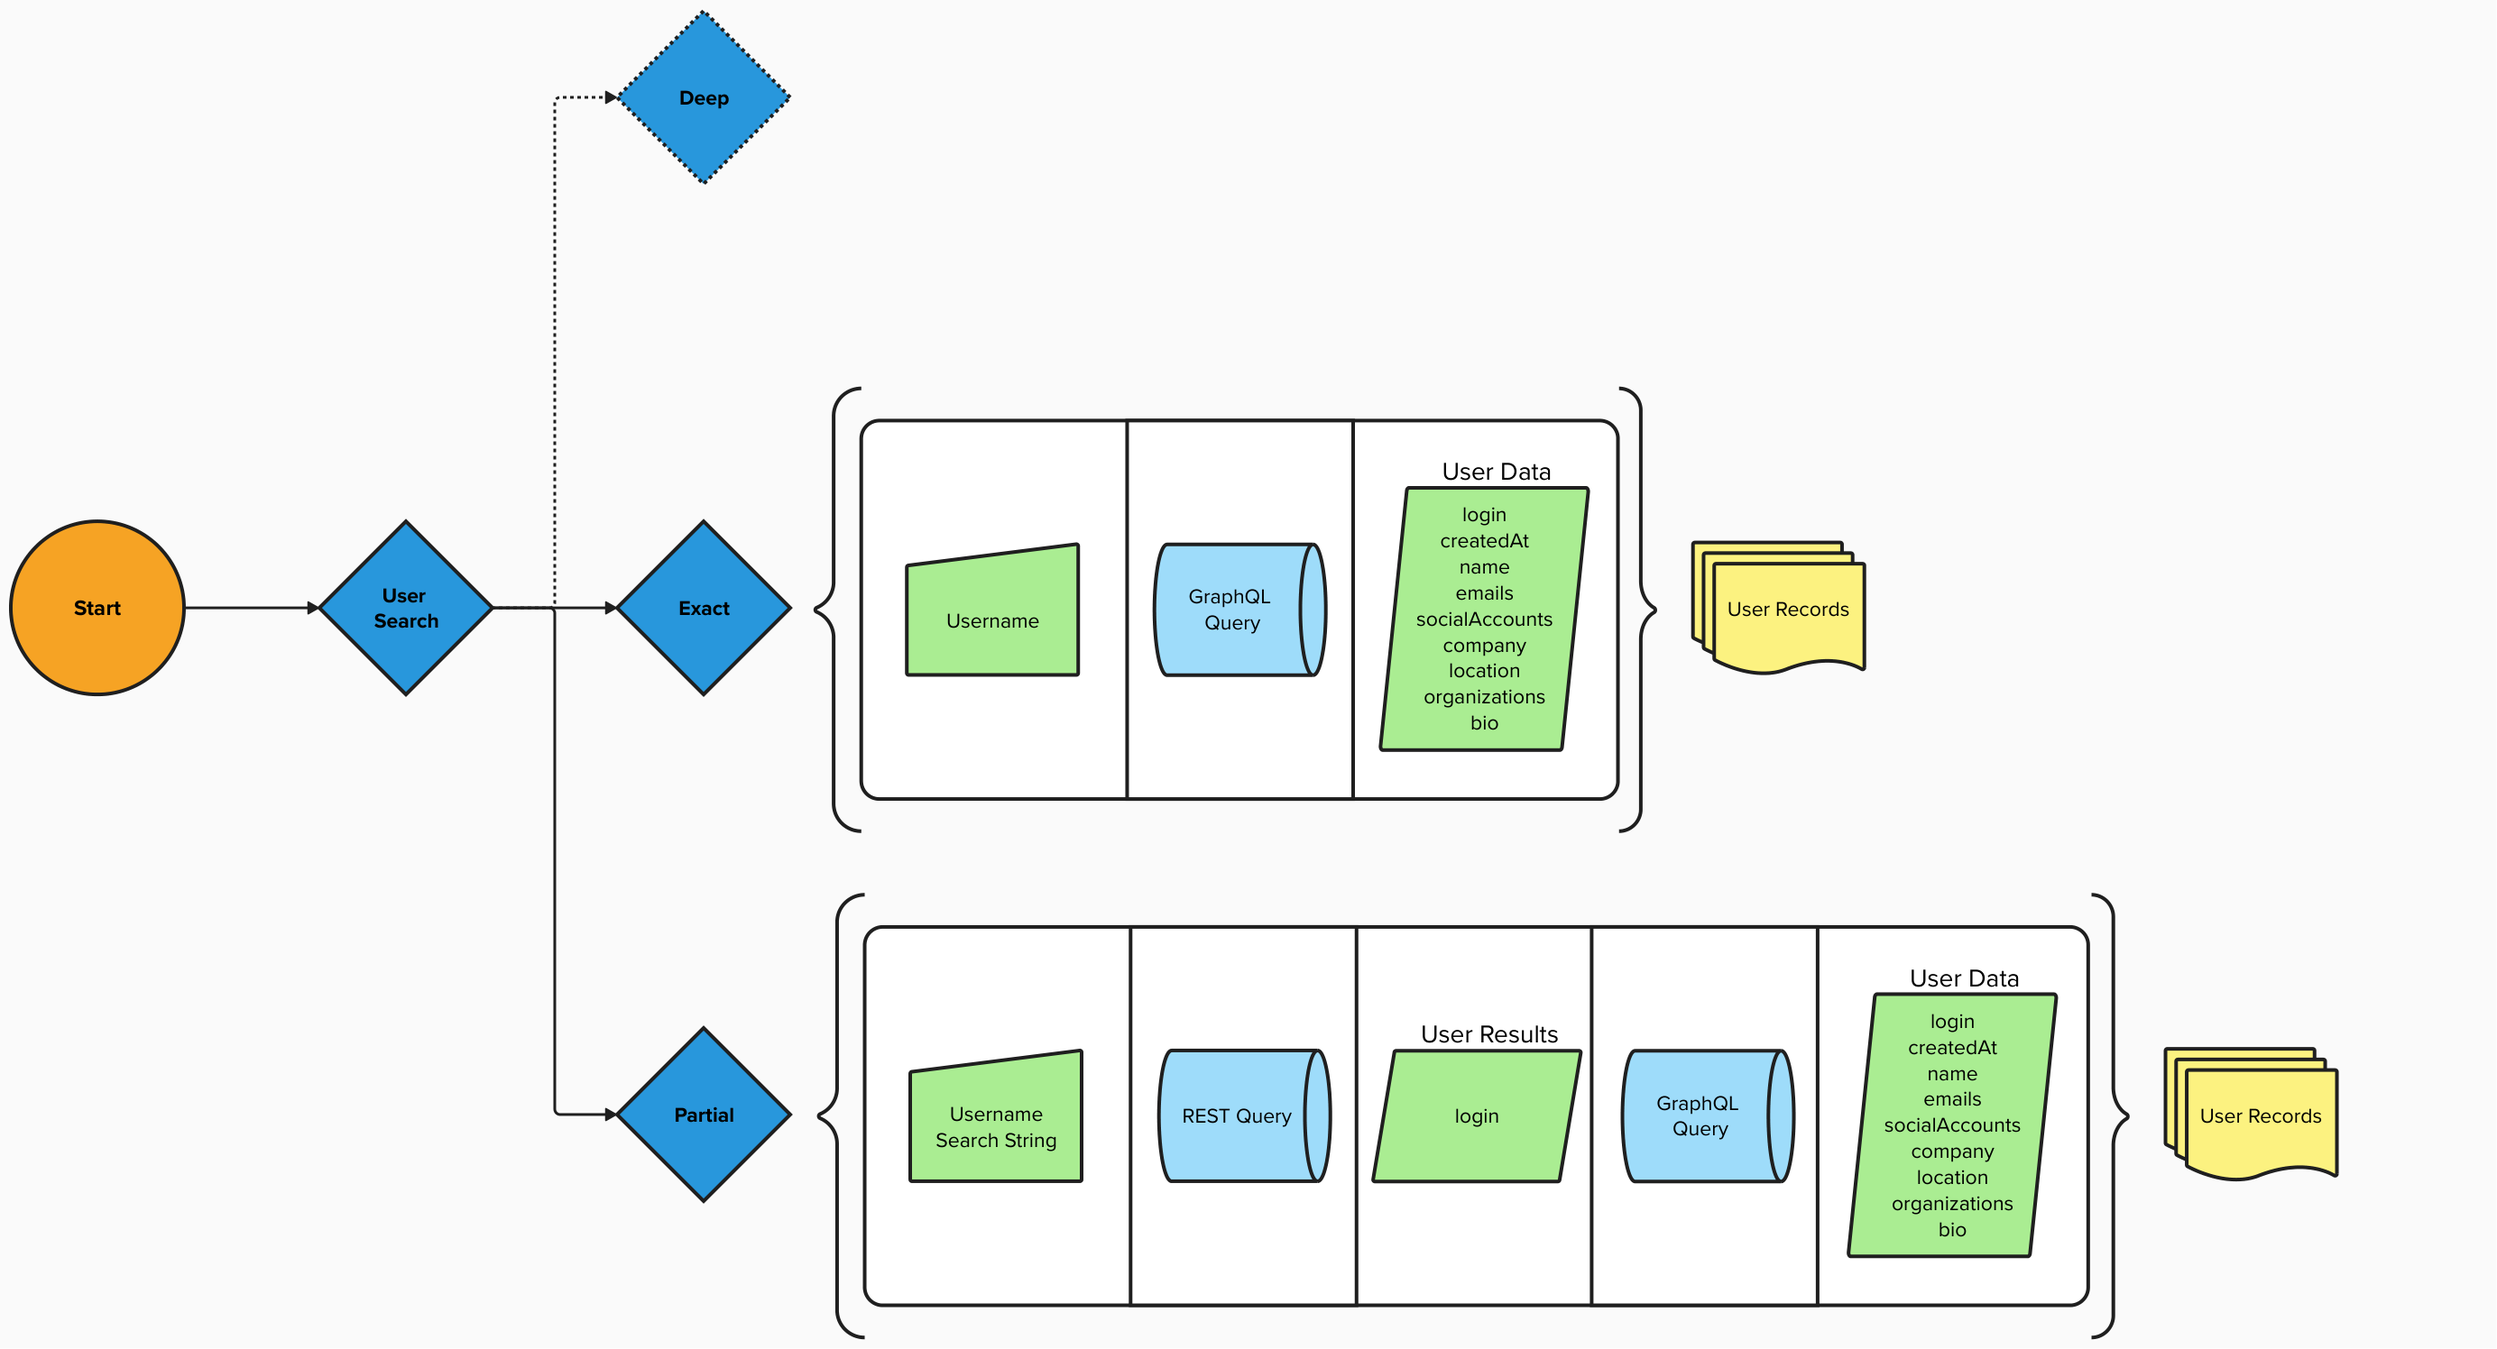
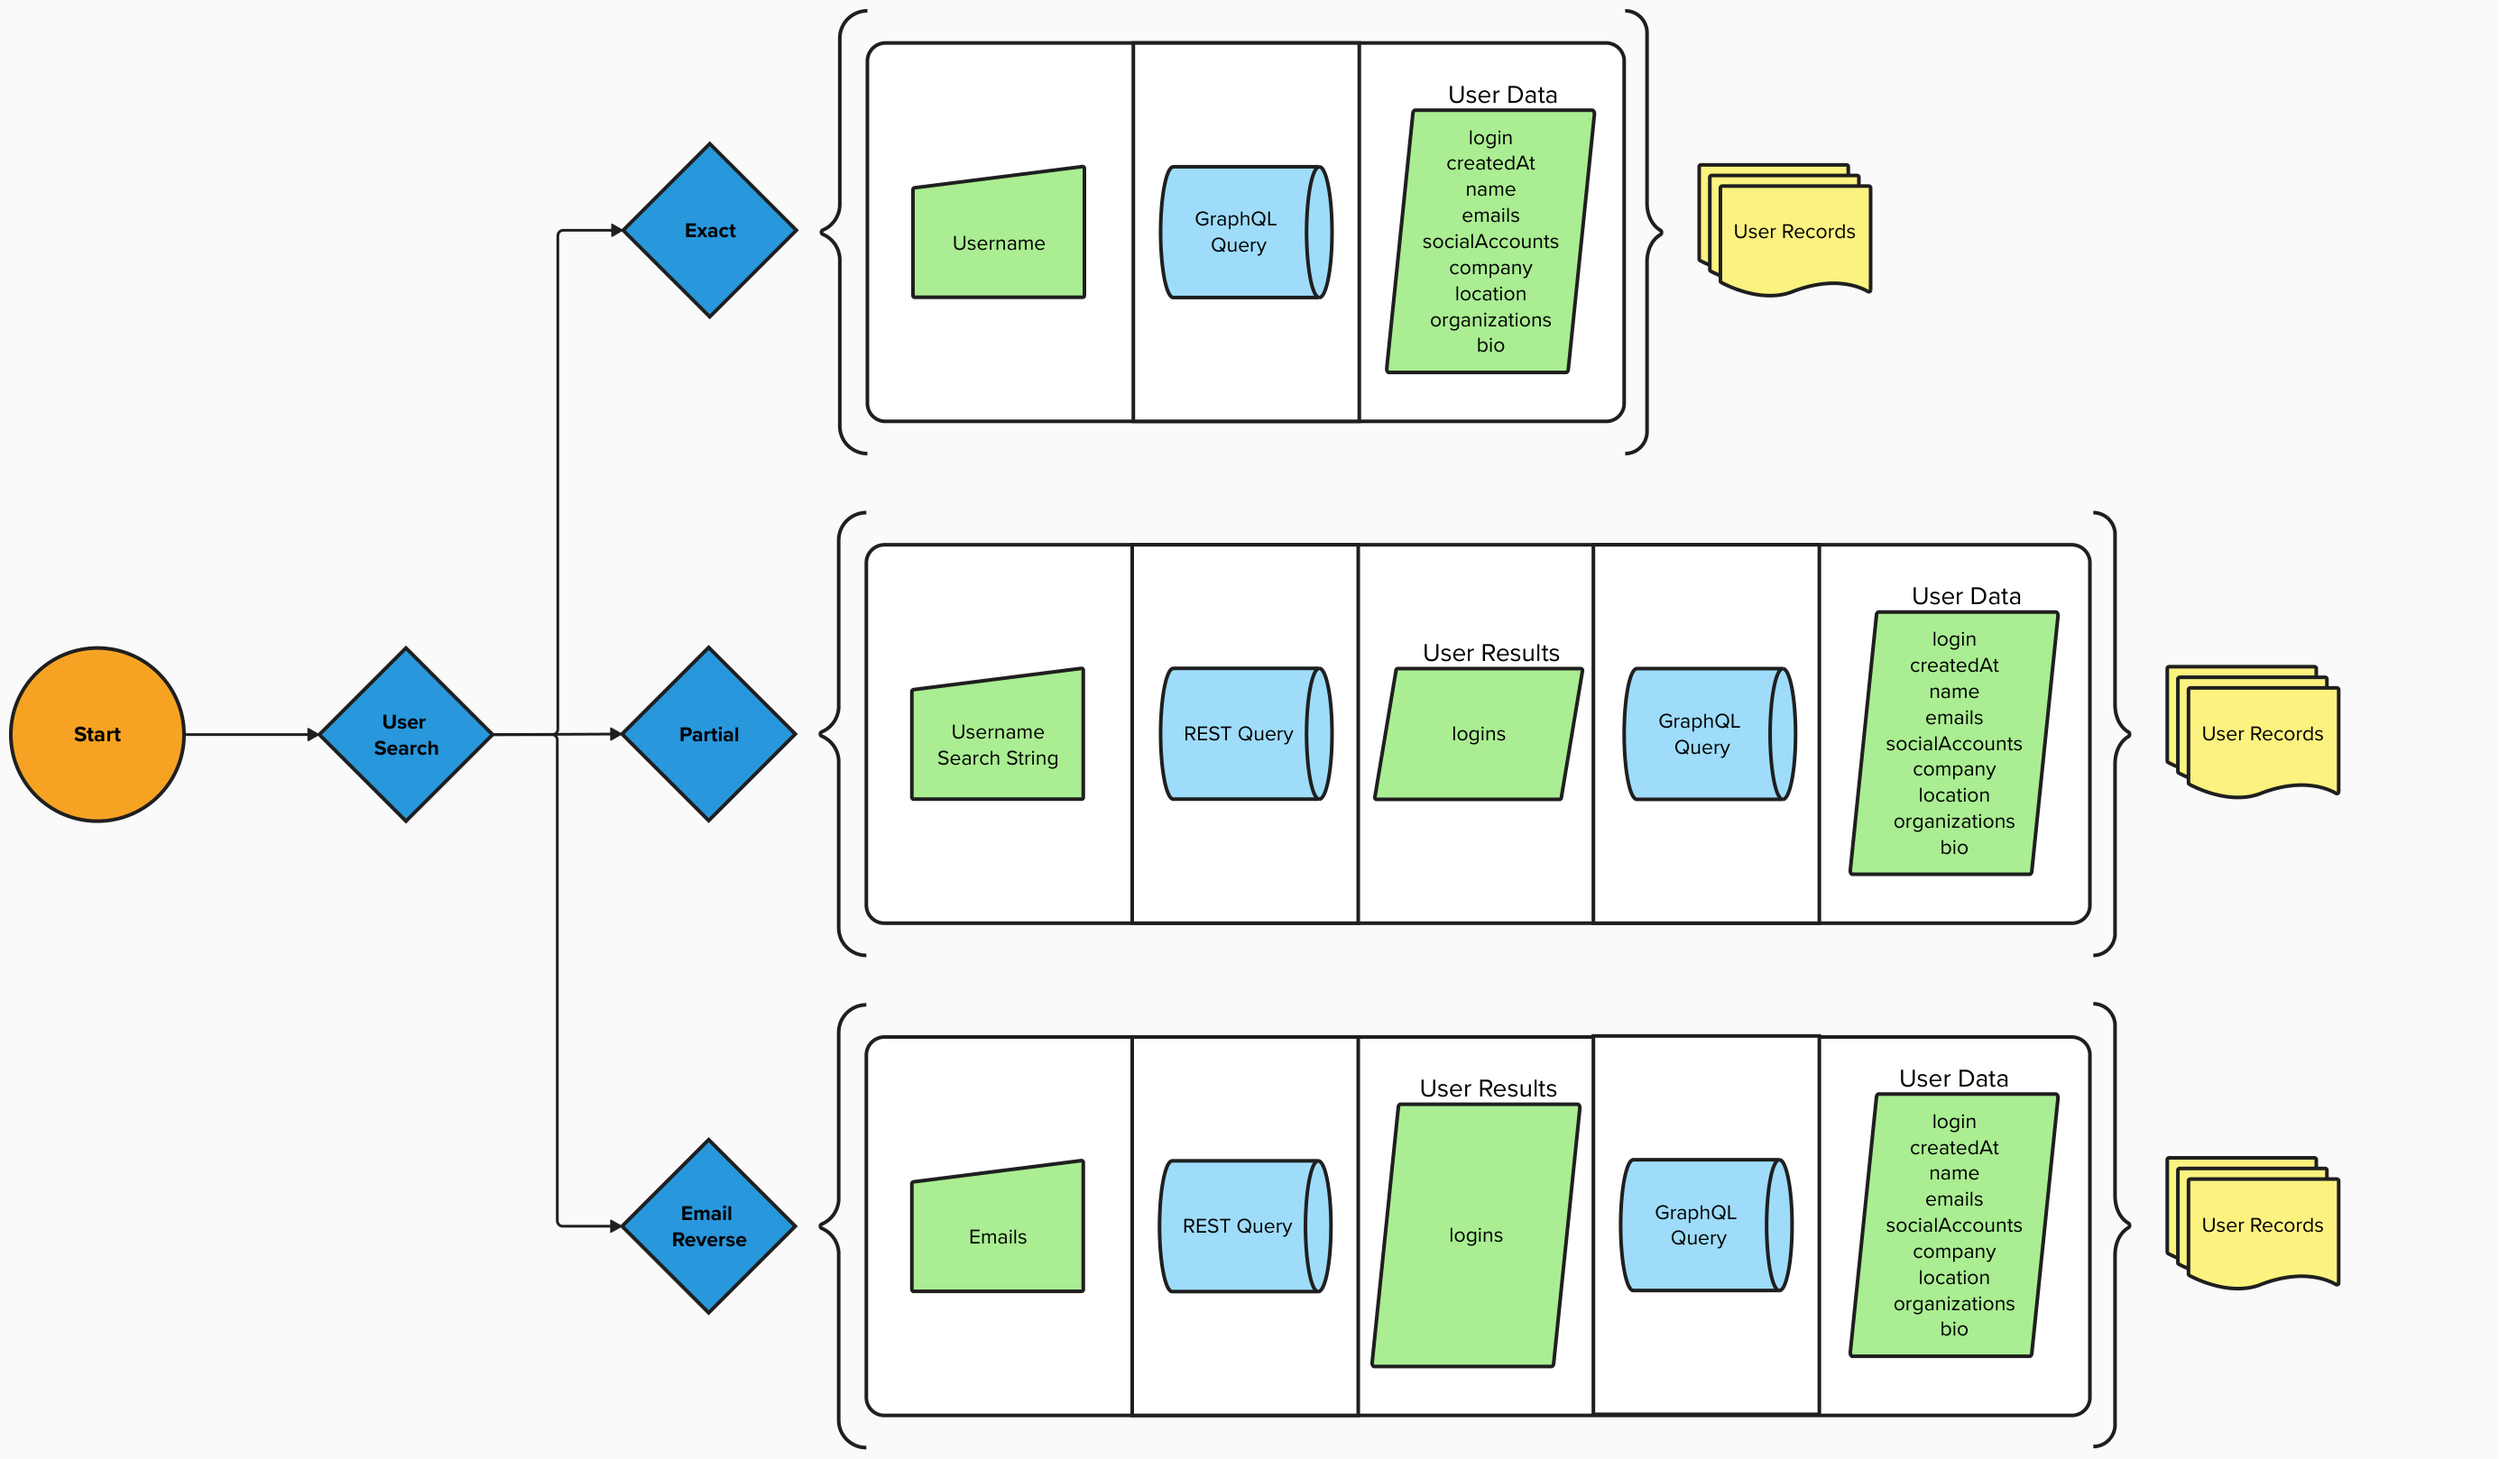
feat: added email reverse search method
reverse searches emails to identify user logins, which then are fed into user exact search

diff --git a/Modules/search.py b/Modules/search.py
@@ -64,6 +64,63 @@ def user_search_partial(token: str, login_substring: str) -> tuple[list[dict], s
     #print(results)
     return results, login_substring
 
+def email_reverse_search(token: str, targets: str | Iterable[str]) -> tuple[set[str], dict[str, str | None]]:
+    """
+    Inputs: GitHub Personal Access Token and target email addresses
+    Outputs: Dict containing logins (keys) and their corresponding emails (values)
+    Method: GitHub Search API for commits with pagination
+    Information (per User): Login, Email
+    """
+    base_url = "https://api.github.com/search/commits"
+    results: dict[str, str | None] = {}
+    logins: set[str] = set()
+    seen: set[tuple[str | None, str | None]] = set()
+    
+    # handles len(targets) = 1 by converting a single string target into a list to avoid character indexing
+    if isinstance(targets, str):
+        targets = [targets]
+        
+    for i, target in enumerate(targets):
+        
+        params = {
+            "q": f"committer-email:{target}",
+            "per_page": 100,
+            "page": 1,
+            "sort": "committer-date",
+            "order": "desc"
+        }
+        
+        response = client.rest_request(token, base_url, params)
+        
+        commits = response.get("items", [])
+        if not commits:
+            print(f"{i + 1} of {len(targets)} emails processed") # progress update message
+            continue
+        
+        for item in commits:
+            login = (item.get("committer") or {}).get("login")
+            email = ((item.get("commit") or {}).get("committer") or {}).get("email")
+            
+            # normalize email to lowercase for consistent comparison
+            email = email.casefold() if isinstance(email, str) else email
+            
+            pair = (login, email)
+            if pair in seen:
+                continue
+            
+            else:
+                seen.add(pair)
+            
+            if login is not None or email is not None:
+                results[f"{login}"] = email
+                logins.add(login)
+        
+        # progress update message
+        if login:
+            print(f"\nLogin identified for {target}: {i + 1} of {len(targets)} emails processed")
+    
+    return logins, results
+
 #============================================================================================
 
 def pseudonym_search(token: str, targets: str | Iterable[str], target_type: str) -> tuple[list[dict], str]:

diff --git a/main.py b/main.py
@@ -105,7 +105,8 @@ def _user_search(token) -> tuple[list[dict], str, str]:
     '''
     search_mode_options = [
         "User Search - Exact Match",
-        "User Search - Partial Match"
+        "User Search - Partial Match",
+        "User Search - Email Reverse Search"
         ]
     search_mode = menus.search_mode_selection(search_mode_options) # User Search Mode Selection
     menus.clear_terminal()
@@ -133,6 +134,36 @@ def _user_search(token) -> tuple[list[dict], str, str]:
         
         start_time = time.perf_counter() # Start time measurement (Benchmarking)
         user_data, target = search.user_search_partial(token, target_substring)
+    
+    elif search_mode == "3": # User Search Email
+        mode = "UserSearchEmail"
+        
+        targets = menus.multiple_input_prompt("Email") # email input menu
+        menus.clear_terminal()
+        
+        start_time = time.perf_counter() # Start time measurement (Benchmarking)
+        logins, committer_data = search.email_reverse_search(token, targets)
+        
+        user_data, target = search.user_search_exact(token, logins)
+        
+        # check if target email addresses are not associated with fetched user dicts; add if missing
+        try:
+            if isinstance(committer_data, dict):
+                for user in user_data:
+                    if not isinstance(user, dict):
+                        continue
+                    
+                    login = user.get("login")
+                    email = committer_data.get(login)
+                    if email is None:
+                        continue
+                    
+                    if email not in user["emails"]:
+                        user["emails"].add(email)
+        
+        except Exception:
+            pass
+        # --
     
     choice = menus.enrichment_prompt()
     if choice == "1": # enrich current results data, takes significantly longer
